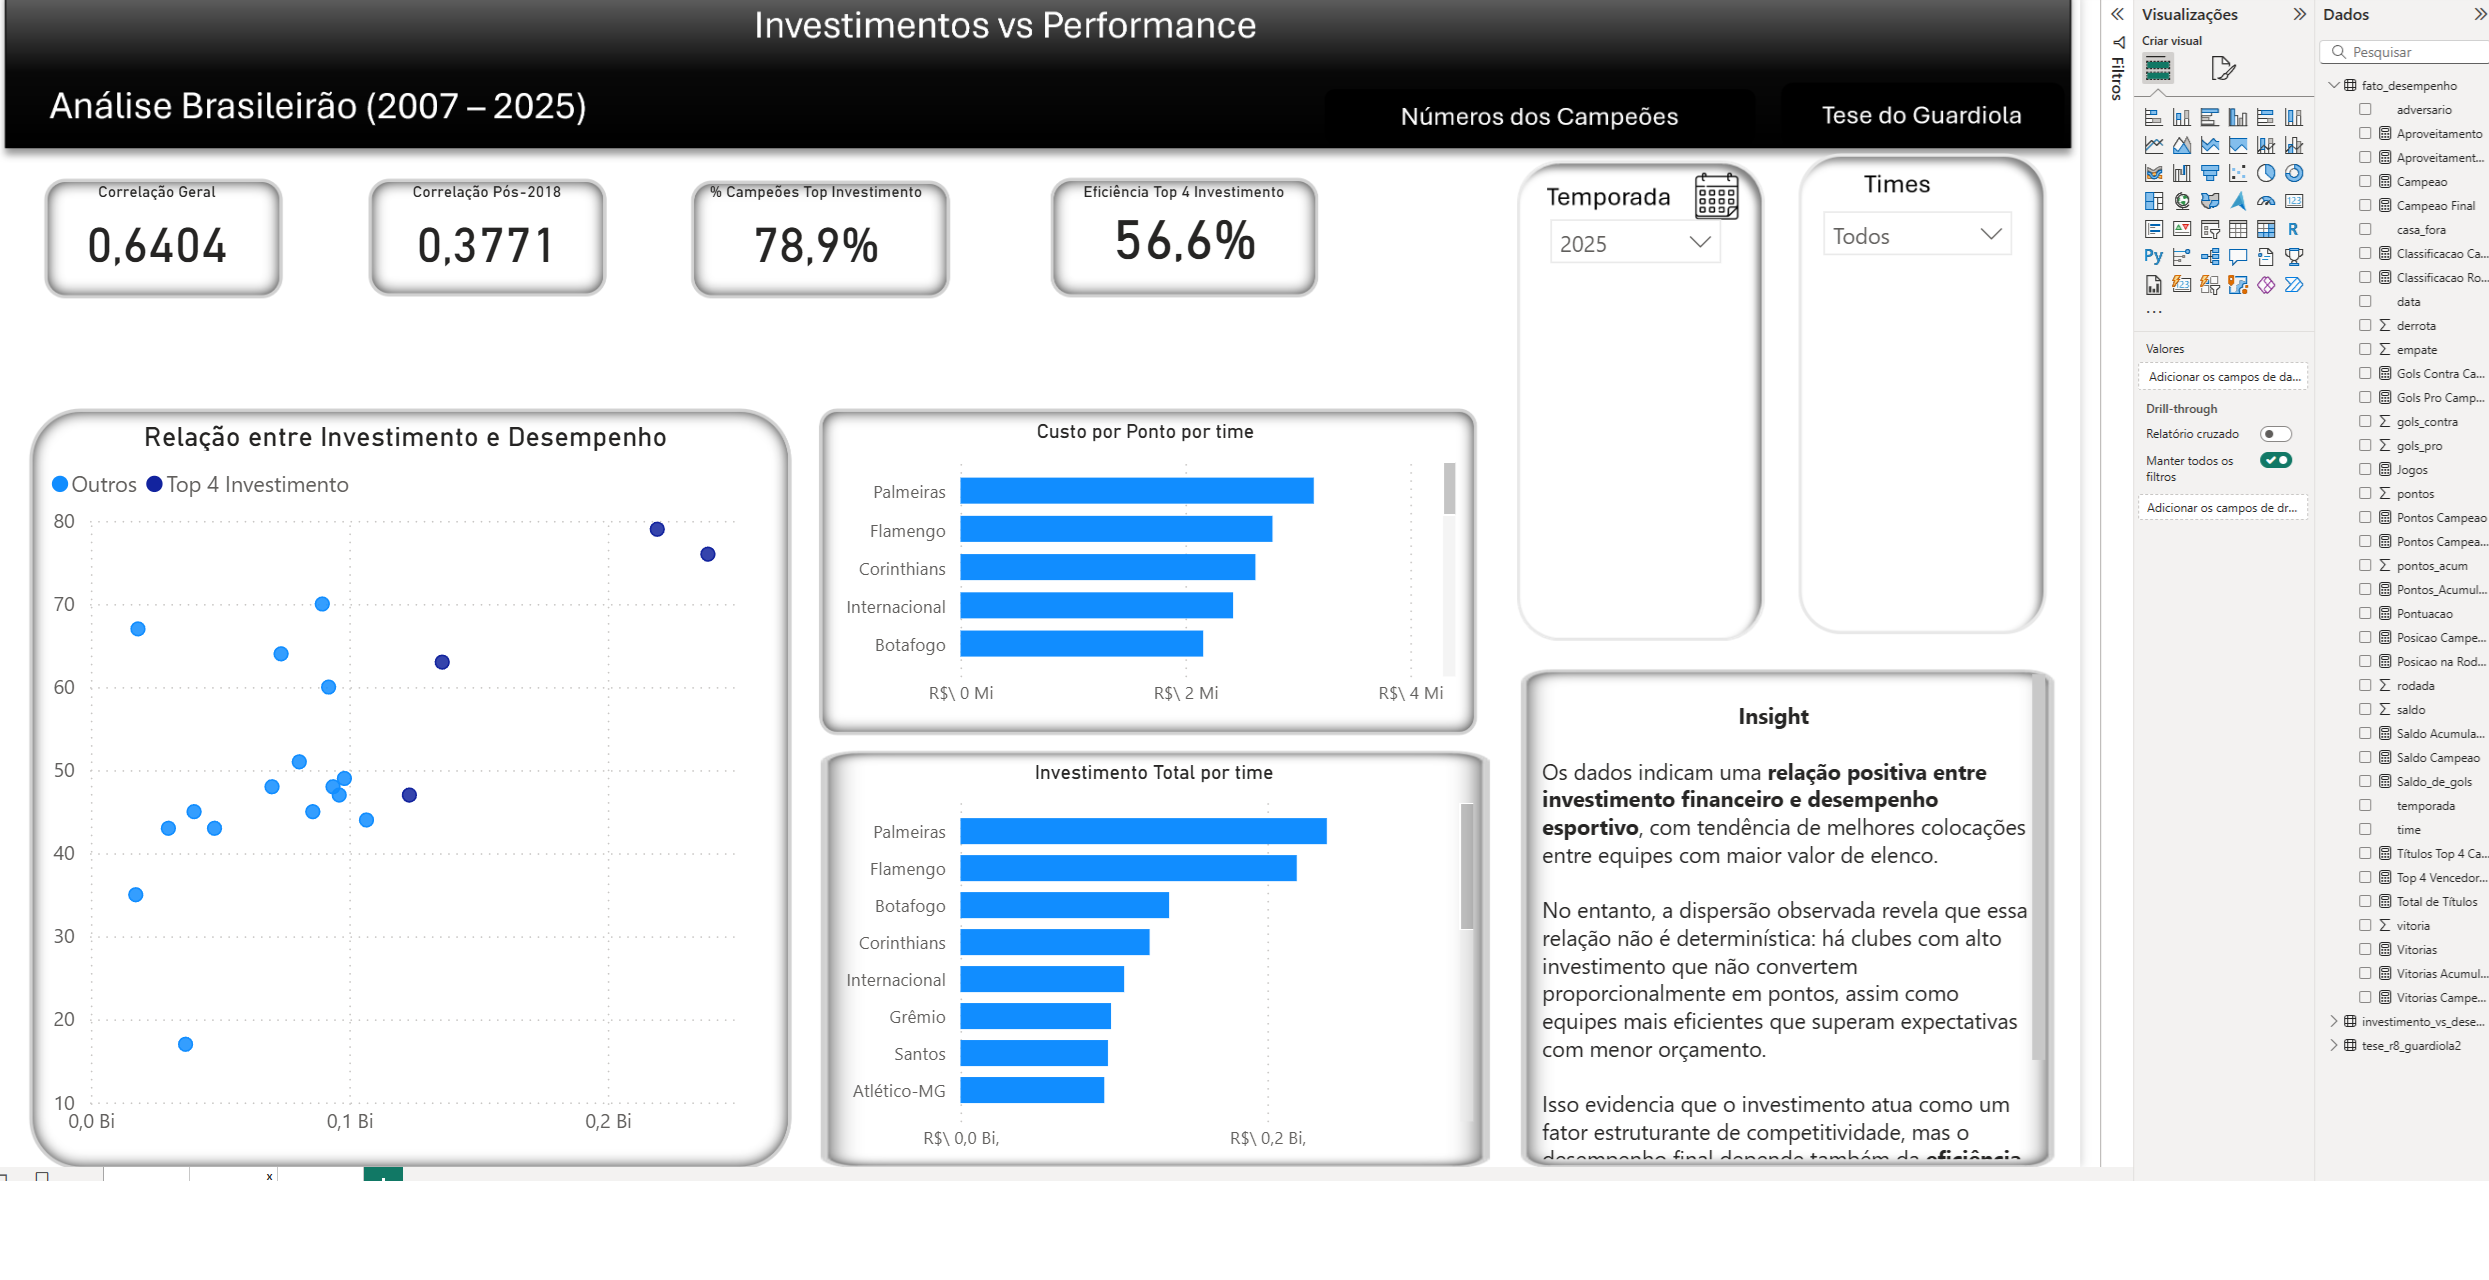
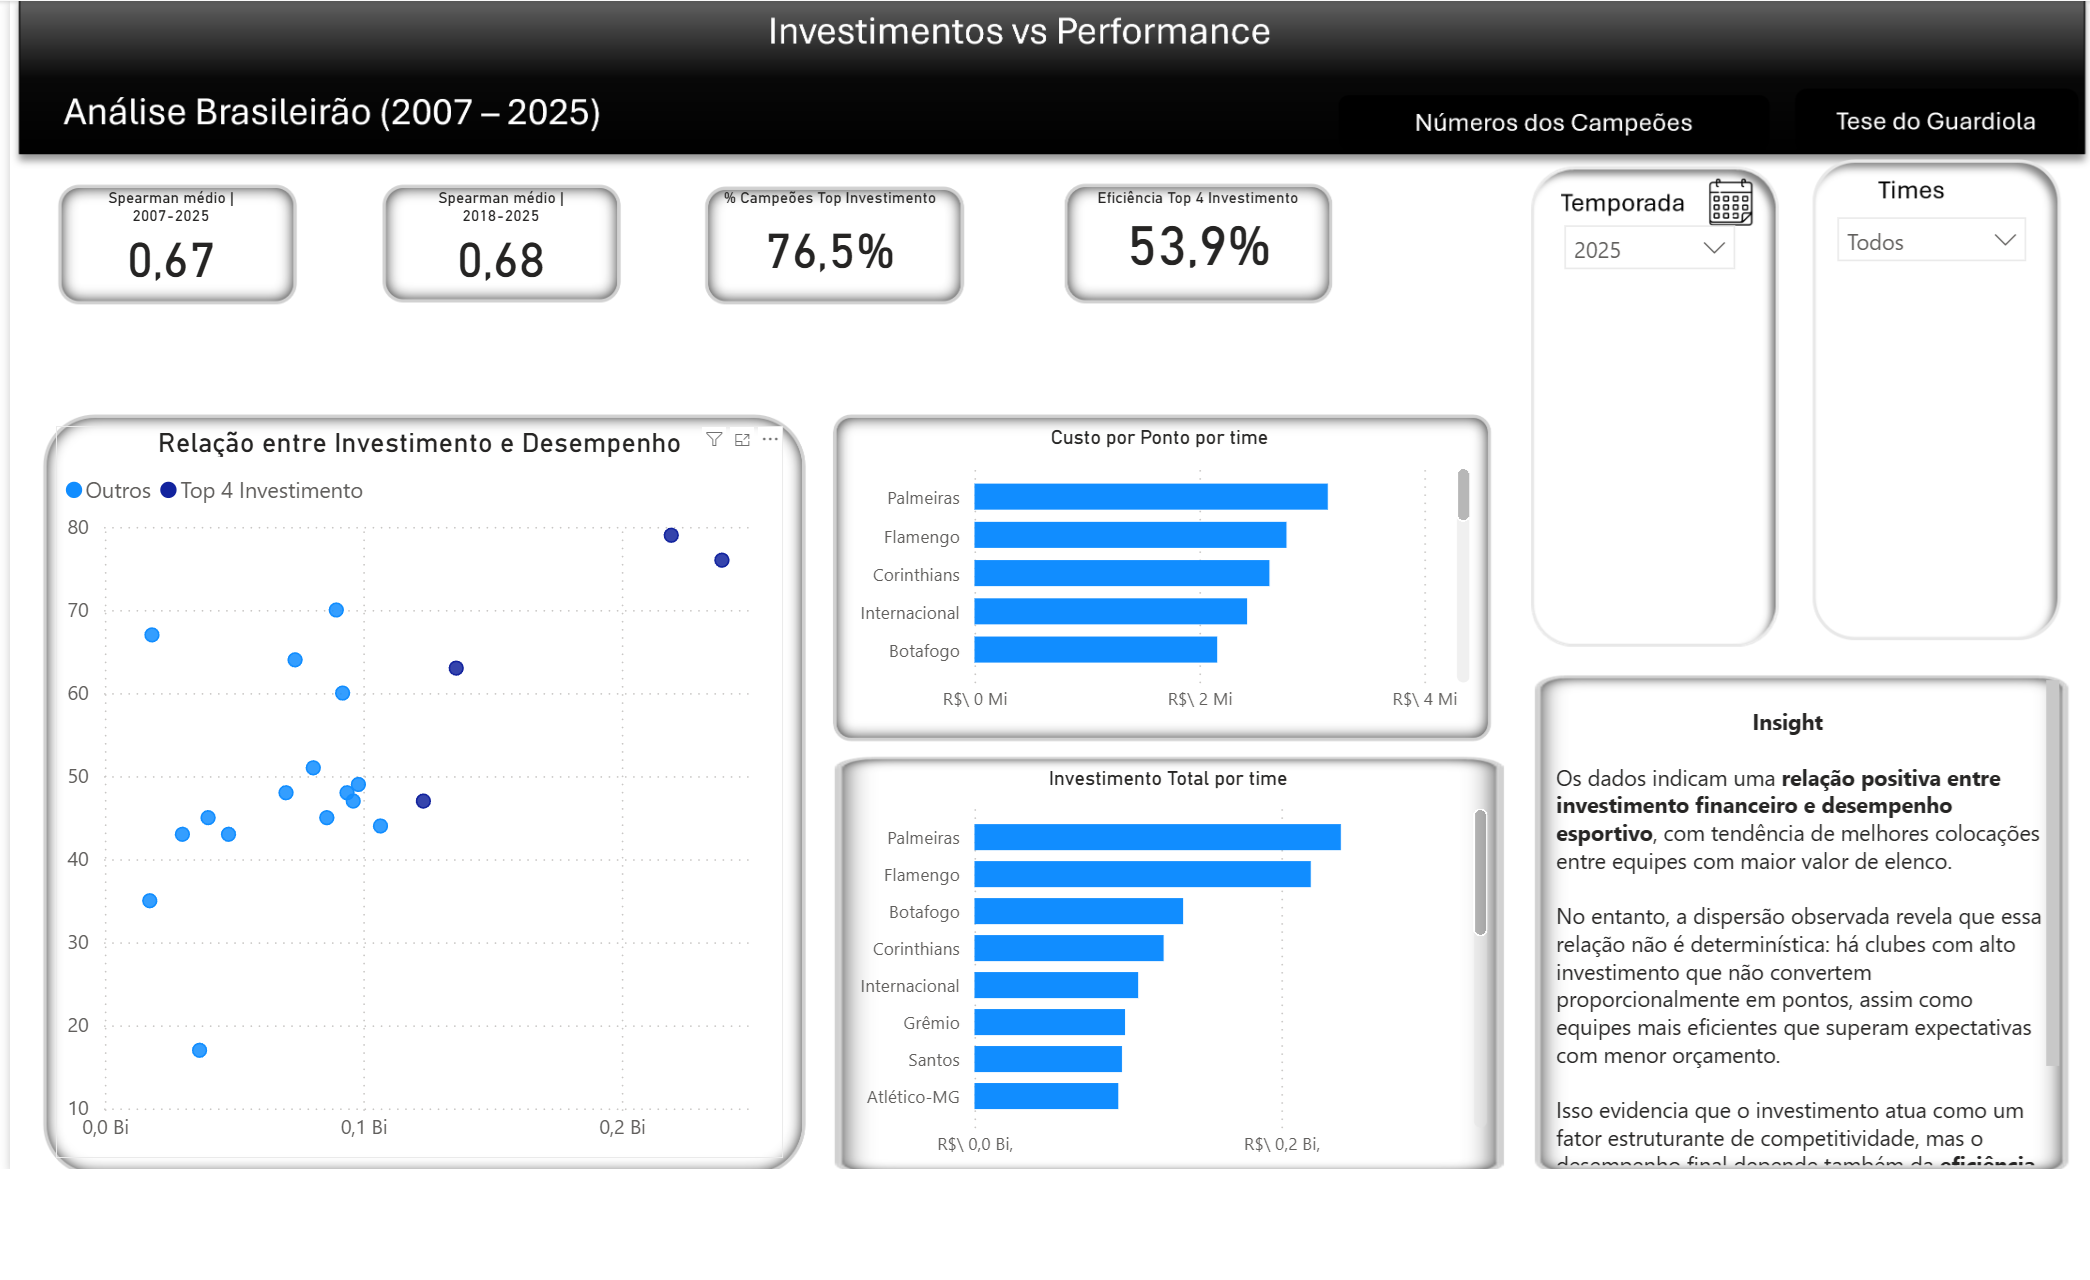
docs: atualiza captura de Investimentos vs Performance
Cartões com Spearman (0,67 / 0,68) e campeões no G4 de valor em 76,5%
(13 de 17 temporadas completas). Nota do README restrita à página 3.

Changed region(s): [[0.0, 0.0, 1.0, 0.9375], [0.311, 0.0, 0.622, 0.0312], [0.0622, 0.5938, 0.1866, 0.6562]]

diff --git a/README.md b/README.md
@@ -14,8 +14,8 @@ acima na tabela?** e **o líder após a 8ª rodada costuma ser campeão?**
 ![Investimento vs performance](img/pag2.png)
 ![Tese da 8ª rodada](img/pag3.png)
 
-> As capturas são anteriores à troca da métrica de correlação (ver Funcionalidades) e serão
-> atualizadas.
+> A captura da Tese da 8ª rodada ainda mostra a base antiga (19 temporadas, 21%) e será
+> atualizada. O número oficial é 4 de 17 (24%).
 
 ## Tecnologias
 
